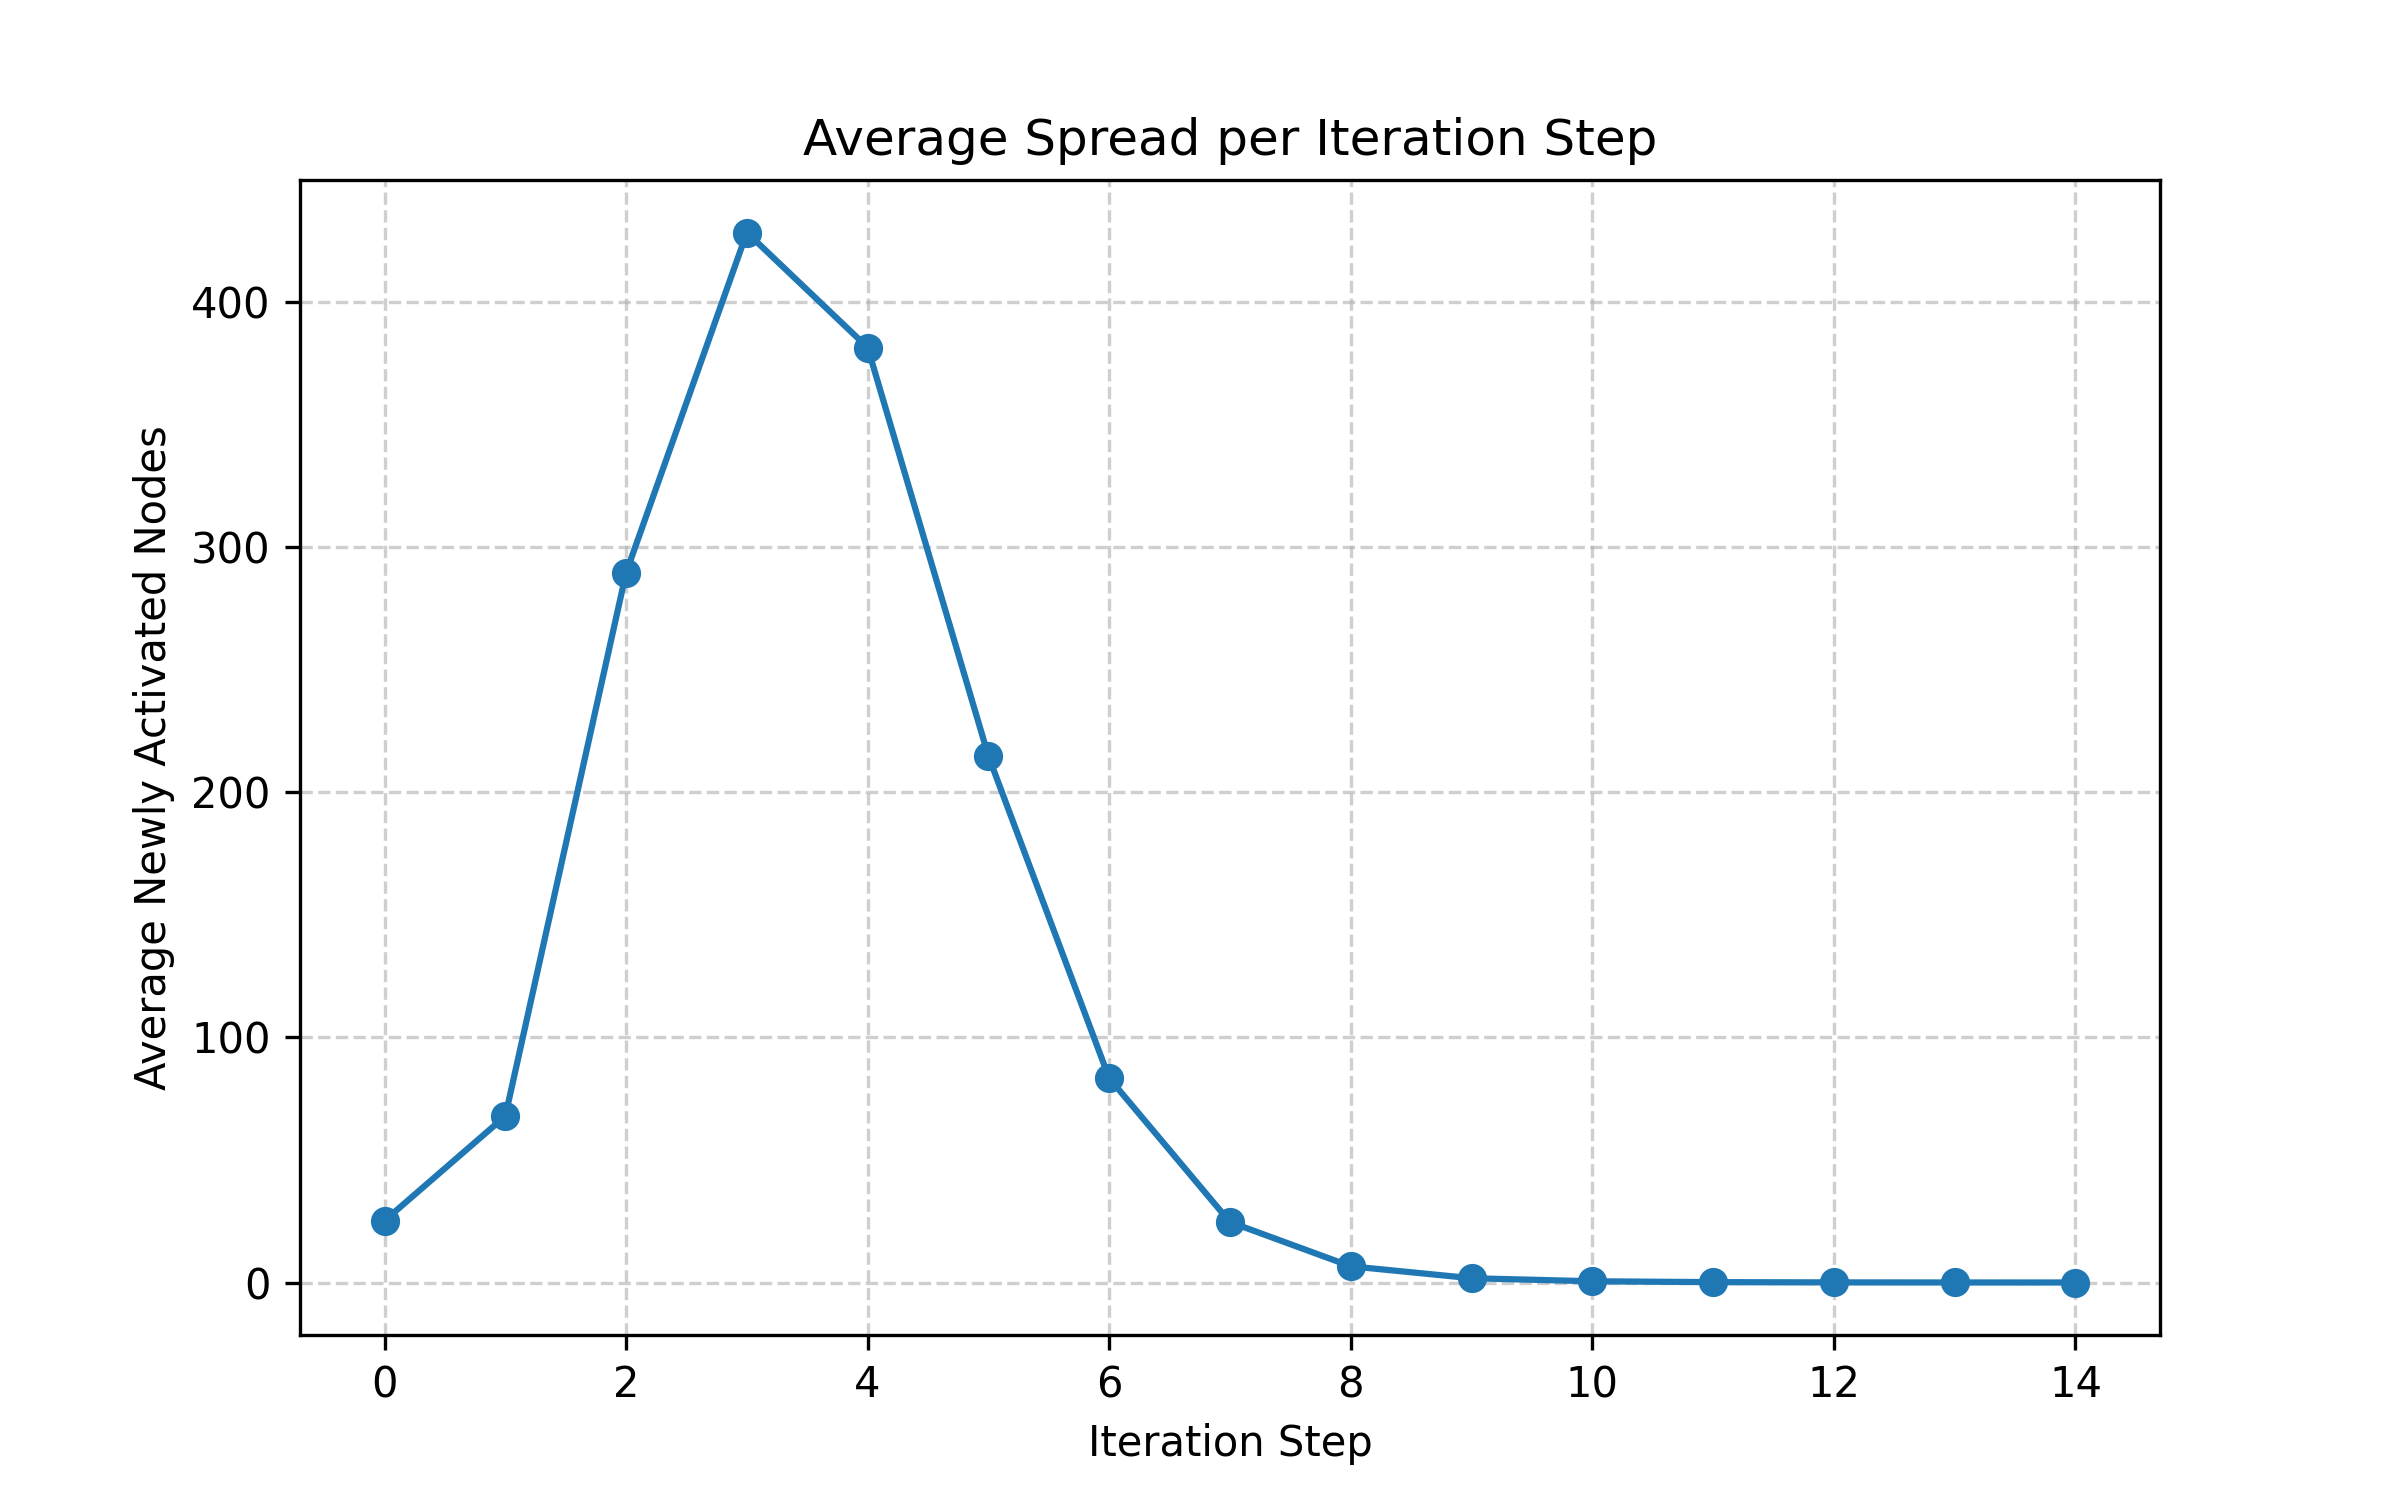
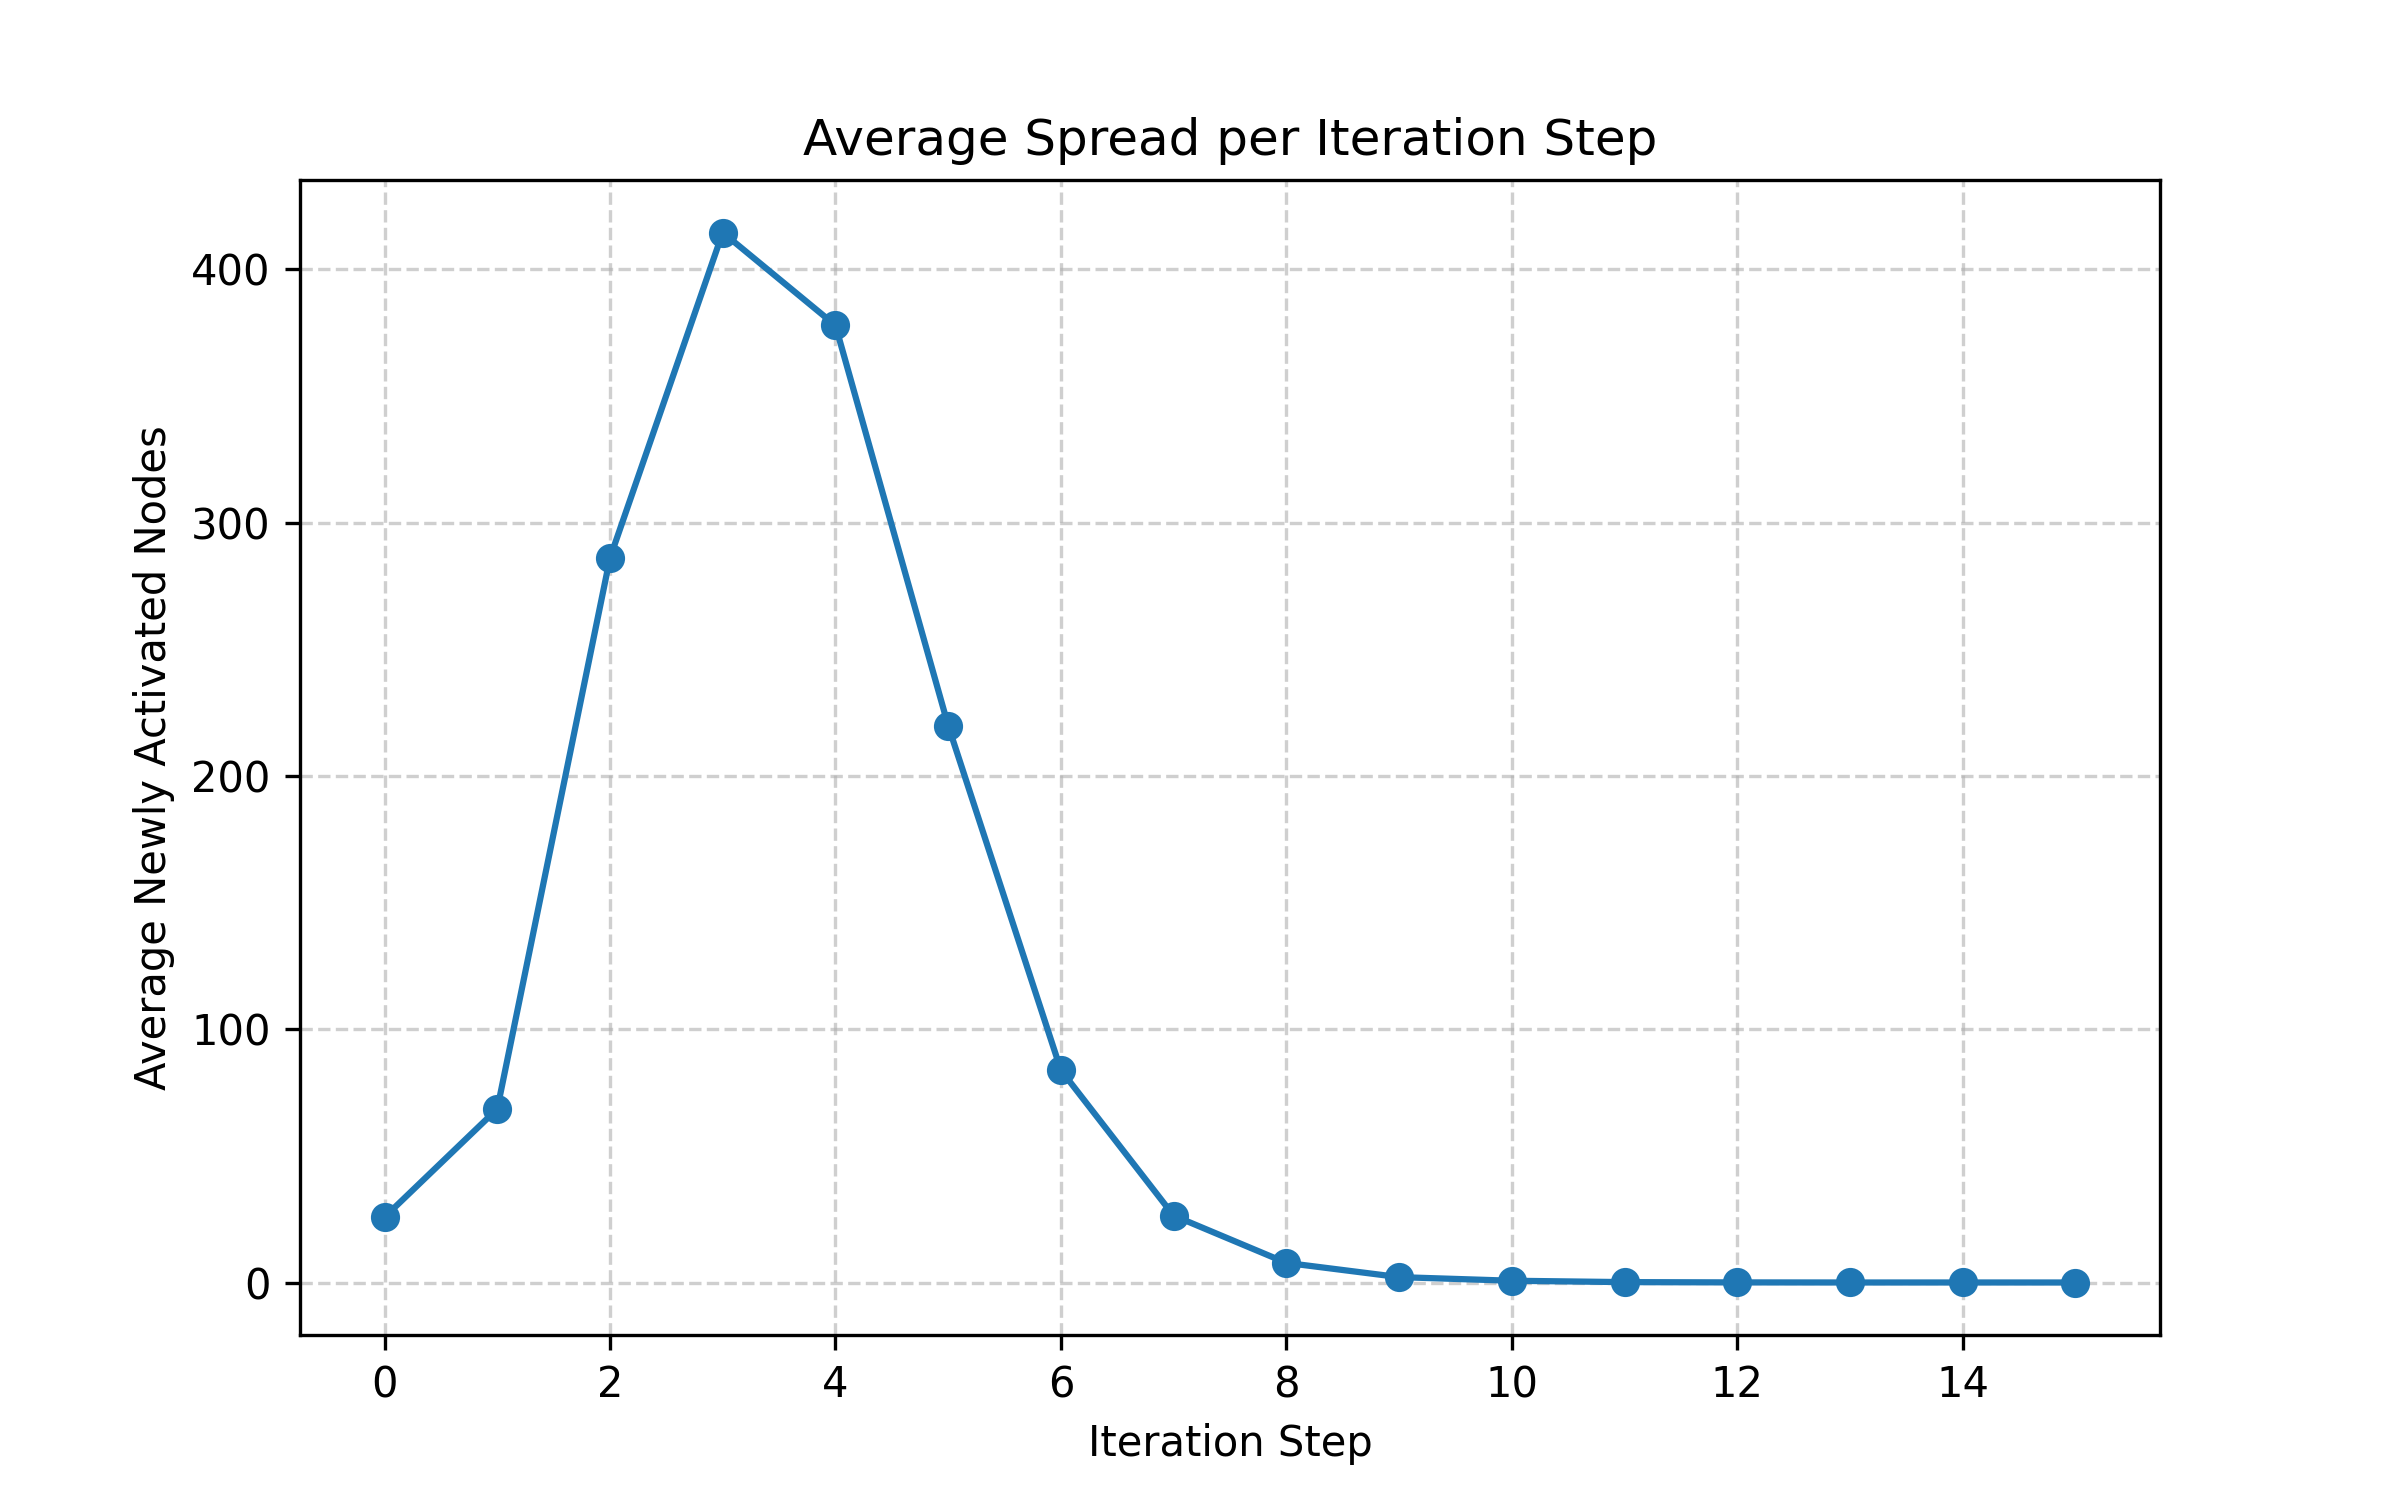
ADD PICTURE FOR EACH GROUP

diff --git a/OTCproject.py b/OTCproject.py
@@ -812,6 +812,29 @@ def AvarageGroups(groups):
 
     return all_runs.mean(axis=0)
 
+def PlotAveragePerGroup(groups, group_names):
+    """
+    Plots a separate graph for each group showing the average number
+    of newly activated nodes per iteration step across all runs.
+
+    Parameters:
+    - groups (list of np.ndarray): Each element is the matrix returned from CalculateIter
+    - group_names (list of str): Names of the groups for labeling the plots
+    """
+    for matrix, name in zip(groups, group_names):
+        # ממוצע לפי איטרציה (עמודה) על כל הריצות
+        avg_per_iteration = matrix.mean(axis=0)
+
+        plt.figure(figsize=(8,5))
+        plt.plot(range(1, len(avg_per_iteration)+1), avg_per_iteration, marker='o')
+        plt.title(f"Average Spread per Iteration - {name}")
+        plt.xlabel("Iteration Step")
+        plt.ylabel("Average Newly Activated Nodes")
+        plt.grid(True, linestyle="--", alpha=0.6)
+        plt.savefig(f"{name}_average.png", dpi=300)
+        plt.show()
+
+
 def CreateGroupsColors(color):
     """
        Creates two groups of nodes based on color: the last 30 nodes by out-degree
@@ -944,6 +967,8 @@ def SpreadIC():
     GroupRedLast30,GroupRedMostConnected = CreateGroupsColors("red")
     GroupBlueLast30,GroupBlueMostConnected = CreateGroupsColors("blue")
 
+    group_names = ["Red Last 30", "Red Most Connected", "Blue Last 30", "Blue Most Connected"]
+
     AllGroups = []
     red_totals = []
     blue_totals = []
@@ -953,6 +978,8 @@ def SpreadIC():
         AllGroups.append(mat)
         red_totals.append(red)
         blue_totals.append(blue)
+
+    PlotAveragePerGroup(AllGroups, group_names)
 
     all_red_matrix = np.vstack(red_totals)  # כל מטריצה של קבוצות מוערמת למטריצה אחת
     all_blue_matrix = np.vstack(blue_totals)
